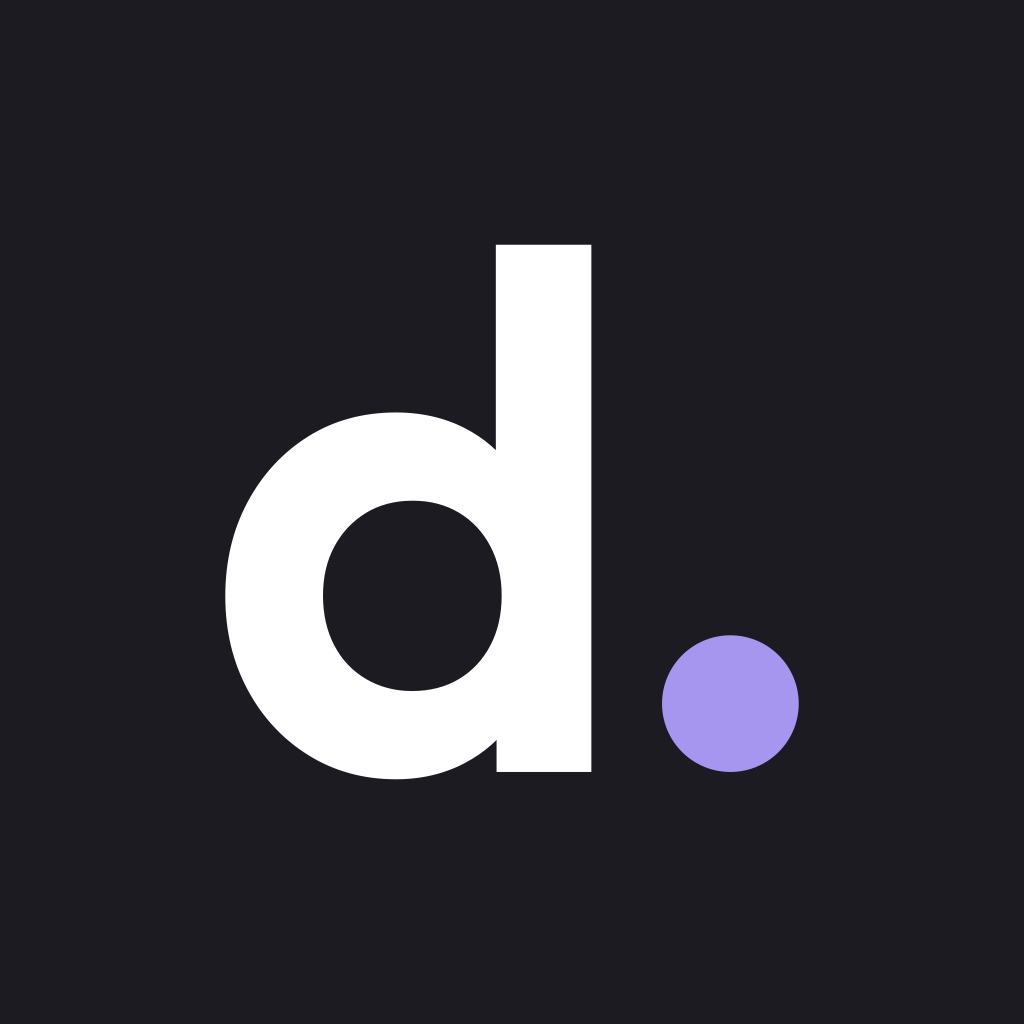
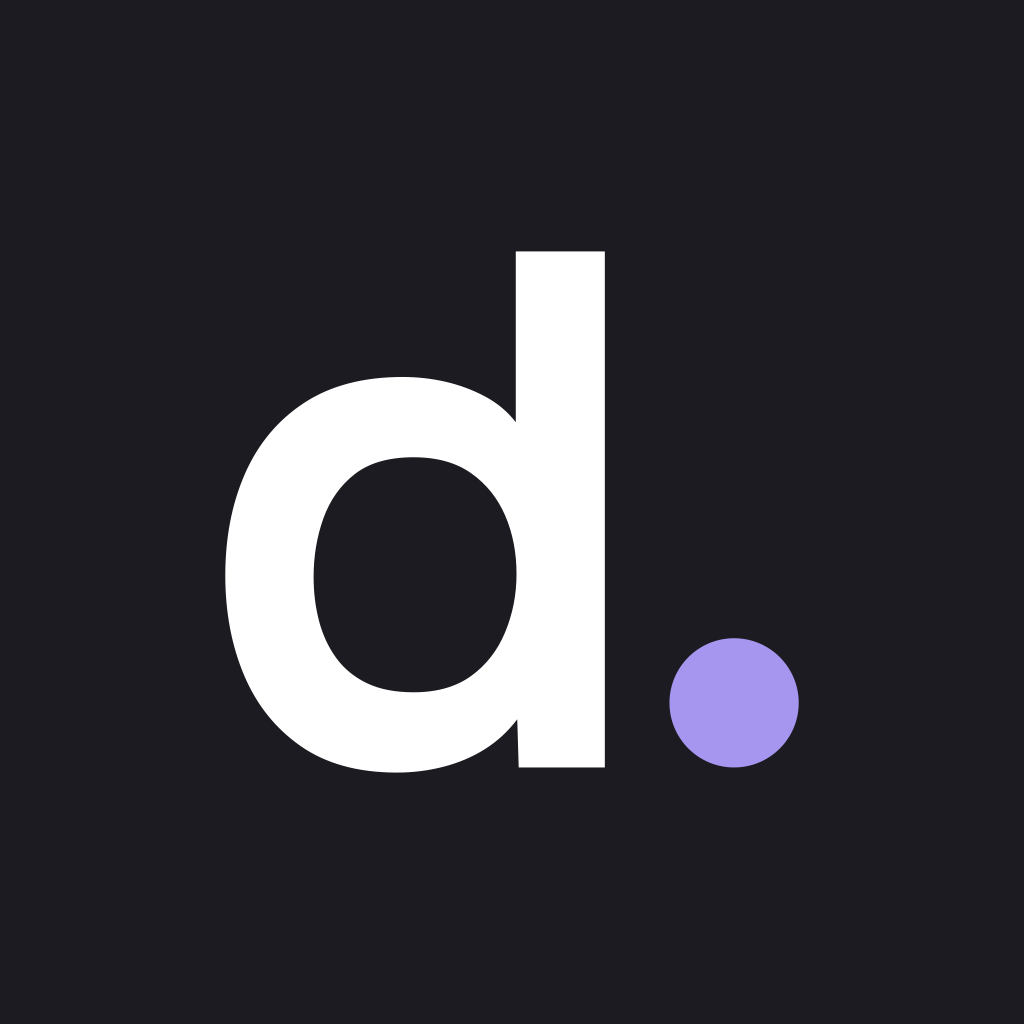
refactor: replace Outfit with Onest typeface across the application
- Removed Android configuration from app.json.
- Updated font dependencies in package.json and package-lock.json to use @expo-google-fonts/onest.
- Modified layout and component files to import and use Onest font weights.
- Updated CSS variables and metadata to reflect the new typeface.
- Changed references in documentation to reflect the switch from Outfit to Onest.
- Updated design assets to align with the new branding.

diff --git a/apps/mobile/src/app/_layout.tsx b/apps/mobile/src/app/_layout.tsx
@@ -1,4 +1,4 @@
-import { Outfit_400Regular, Outfit_500Medium, Outfit_600SemiBold, useFonts } from '@expo-google-fonts/outfit';
+import { Onest_400Regular, Onest_500Medium, Onest_600SemiBold, useFonts } from '@expo-google-fonts/onest';
 import { DarkTheme, DefaultTheme, Stack, ThemeProvider } from 'expo-router';
 import * as SplashScreen from 'expo-splash-screen';
 import { StatusBar } from 'expo-status-bar';
@@ -10,7 +10,7 @@ import { useTheme } from '@/theme';
 SplashScreen.preventAutoHideAsync();
 
 export default function RootLayout() {
-  const [fontsLoaded, fontError] = useFonts({ Outfit_400Regular, Outfit_500Medium, Outfit_600SemiBold });
+  const [fontsLoaded, fontError] = useFonts({ Onest_400Regular, Onest_500Medium, Onest_600SemiBold });
   const hydrated = useStore((s) => s.hydrated);
   const seeded = useStore((s) => s.settings.seeded);
   const loadSample = useStore((s) => s.loadSample);

diff --git a/apps/web/app/layout.tsx b/apps/web/app/layout.tsx
@@ -1,8 +1,8 @@
 import type { Metadata, Viewport } from 'next';
-import { Outfit } from 'next/font/google';
+import { Onest } from 'next/font/google';
 import './globals.css';
 
-const outfit = Outfit({ subsets: ['latin'], weight: ['400', '500', '600'], variable: '--font-outfit', display: 'swap' });
+const onest = Onest({ subsets: ['latin'], weight: ['400', '500', '600'], variable: '--font-onest', display: 'swap' });
 
 export const metadata: Metadata = {
   title: 'Dayli',
@@ -18,7 +18,7 @@ export const viewport: Viewport = {
 
 export default function RootLayout({ children }: LayoutProps<'/'>) {
   return (
-    <html lang="en" className={outfit.variable}>
+    <html lang="en" className={onest.variable}>
       <body>{children}</body>
     </html>
   );

diff --git a/packages/tokens/src/index.ts b/packages/tokens/src/index.ts
@@ -89,11 +89,11 @@ export const space = { xxs: 4, xs: 8, sm: 12, md: 16, lg: 20, xl: 24, xxl: 32, x
 
 export const radius = { chip: 999, row: 16, card: 20, sheet: 28, pill: 999 } as const;
 
-/** Outfit weights used by the app. Font family names match @expo-google-fonts/outfit exports. */
+/** Onest weights used by the app. Font family names match @expo-google-fonts/onest exports. */
 export const fontFamily = {
-  regular: 'Outfit_400Regular',
-  medium: 'Outfit_500Medium',
-  semibold: 'Outfit_600SemiBold',
+  regular: 'Onest_400Regular',
+  medium: 'Onest_500Medium',
+  semibold: 'Onest_600SemiBold',
 } as const;
 
 export const typeScale = {

diff --git a/apps/mobile/src/components/Wordmark.tsx b/apps/mobile/src/components/Wordmark.tsx
@@ -1,7 +1,7 @@
 import { fontFamily, lavender } from '@dayli/tokens';
 import { StyleSheet, Text, View } from 'react-native';
 
-/** The dayli. wordmark: Outfit SemiBold with the i's tittle and the period as lavender dots. */
+/** The dayli. wordmark: Onest SemiBold with the i's tittle and the period as lavender dots. */
 export function Wordmark({ size = 32, ink }: { size?: number; ink: string }) {
   const dot = size * 0.19;
   const text = { fontFamily: fontFamily.semibold, fontSize: size, lineHeight: size * 1.1, letterSpacing: -size * 0.045, color: ink };

diff --git a/apps/web/app/globals.css b/apps/web/app/globals.css
@@ -23,7 +23,7 @@
   --conflict: #e5544a;
   --conflict-bg: #fce3e0;
   --chip: rgba(255, 255, 255, 0.72);
-  --font: var(--font-outfit), ui-sans-serif, system-ui, -apple-system, 'Segoe UI', Roboto, sans-serif;
+  --font: var(--font-onest), ui-sans-serif, system-ui, -apple-system, 'Segoe UI', Roboto, sans-serif;
   color-scheme: light;
 }
 

diff --git a/docs/brand-and-logo.md b/docs/brand-and-logo.md
@@ -25,7 +25,7 @@ Status: draft · October 2026
 Decision (Oct 19, 2026): Dayli has one logo, the `dayli.` wordmark. There is no separate symbol. Where a square mark is required (app icon, avatar, favicon), the icon is a crop of the wordmark: the lowercase **d** and the lavender period, set in the same letterforms. It reads as the start of the name, not as a second logo.
 
 ### 3.1 Wordmark
-Lowercase `dayli.` in Outfit SemiBold, tracked −4.5%. Two lavender (500) circles: the tittle of the i and the closing period, both 0.19 em wide. Today, and what's next.
+Lowercase `dayli.` in Onest SemiBold, tracked −4.5%. Two lavender (500) circles: the tittle of the i and the closing period, both 0.19 em wide. Today, and what's next.
 
 - Custom pass before launch: shorten the y descender so it sits tight on the baseline, open the a slightly, and round terminals to match the icon stroke. These make the mark ownable against the word "daily".
 - Always lowercase, always with the period. In running text the product is "Dayli".
@@ -37,7 +37,7 @@ Lowercase `dayli.` in Outfit SemiBold, tracked −4.5%. Two lavender (500) circl
 | Light | Lavender 200 `#DCD4FB` | Ink | Lavender 600 `#6F57D4` |
 | Tinted / dark (iOS 18+) | System | Single-color from the layered file | |
 
-The letter and dot together span 56% of the icon width, centered. Generated from the Outfit glyph outline by `design/` (see `icon-1024.png`, `icon-light-1024.png`); rebuild from the SVGs if the typeface changes.
+The letter and dot together span 56% of the icon width, centered. Generated from the Onest glyph outline by `design/` (see `icon-1024.png`, `icon-light-1024.png`); rebuild from the SVGs if the typeface changes.
 
 ### 3.3 Requirements checked
 1. Legible at 16 px (favicon shows `d.`) and 60 px (iOS icon).

diff --git a/docs/README.md b/docs/README.md
@@ -12,6 +12,6 @@
 
 1. **Platform** — decided: Expo (iOS first) + Next.js web, one TypeScript codebase. Backend/sync (Supabase or other) deferred until the beta shows it is needed; everything is on-device for now.
 2. **Logo** — decided: wordmark only, app icon is a `d.` crop of it. See brand-and-logo §3.
-3. **Typeface** — decided: Outfit.
+3. **Typeface** — decided: Onest.
 4. **Name clearance** — trademark, App Store, and domain checks for "Dayli" before any public brand spend.
 5. **SMS in MVP** — keep (strong differentiator) or move to V1.1 (A2P 10DLC registration takes weeks and costs money). See product-plan §7.

diff --git a/docs/design-system.md b/docs/design-system.md
@@ -26,7 +26,7 @@ Status: draft · October 2026 · Visual board: [Dayli Brand Board](https://claud
 
 ## 3. Typography
 
-**Primary face: Outfit** (OFL, Google Fonts). Round, geometric, closest to the reference clock. Chosen Oct 19, 2026 over Onest, Figtree, and Plus Jakarta Sans. Bundled in the app via `@expo-google-fonts/outfit`; SF Pro as fallback.
+**Primary face: Onest** (OFL, Google Fonts). Friendly, balanced, very readable small. Final choice Oct 19, 2026 (briefly Onest). Bundled in the app via `@expo-google-fonts/onest`; SF Pro as fallback.
 
 | Token | Size / line | Weight | Tracking | Use |
 |---|---|---|---|---|
